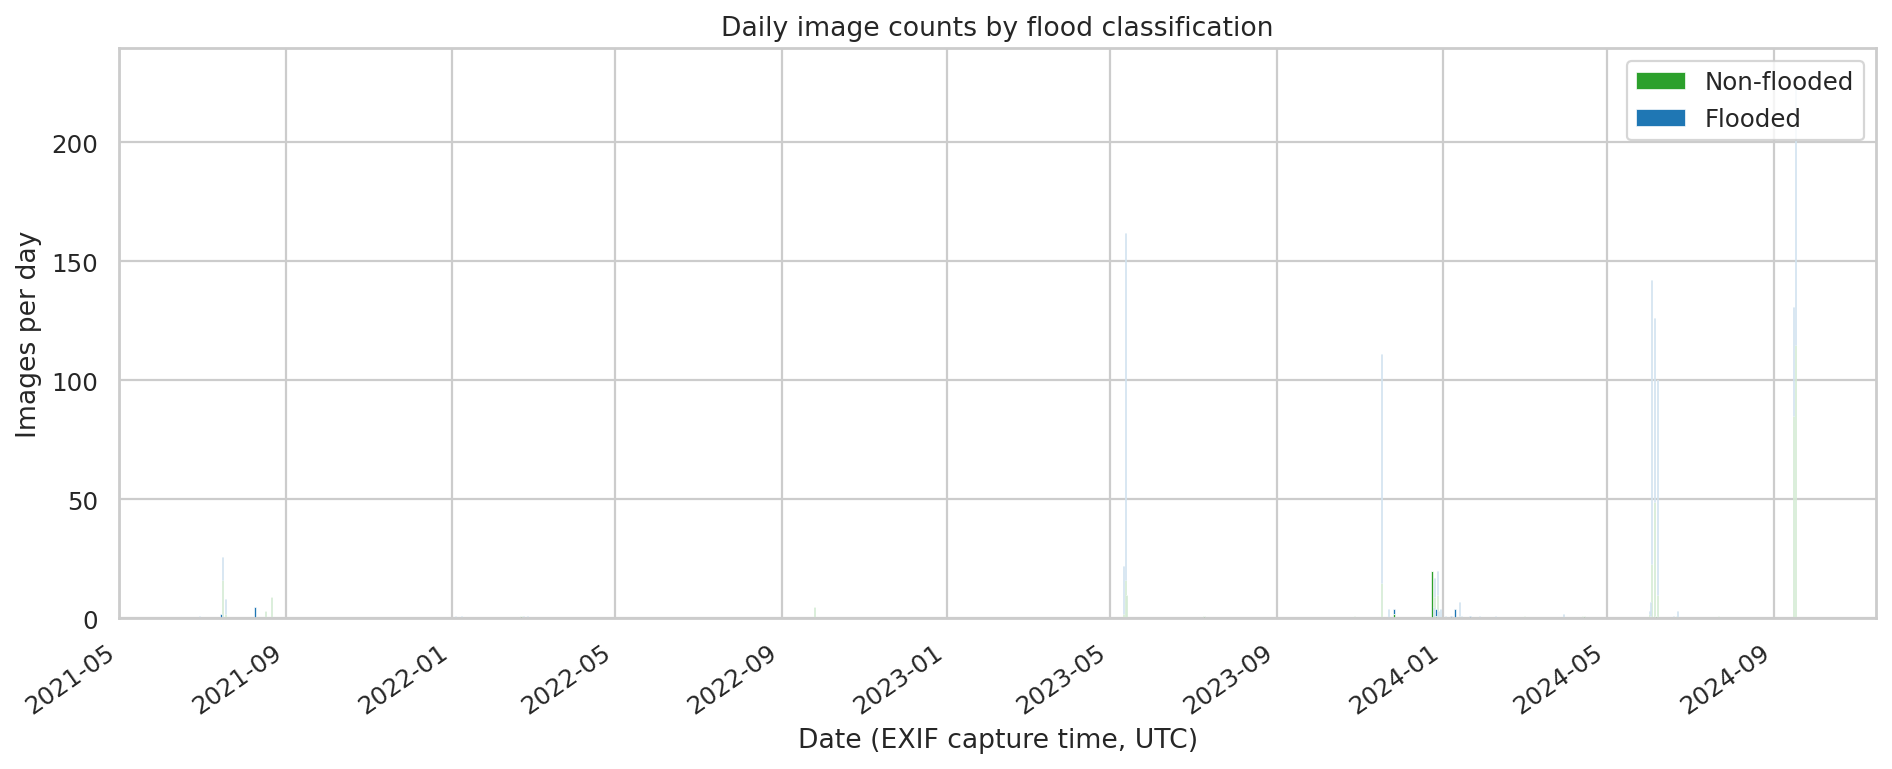
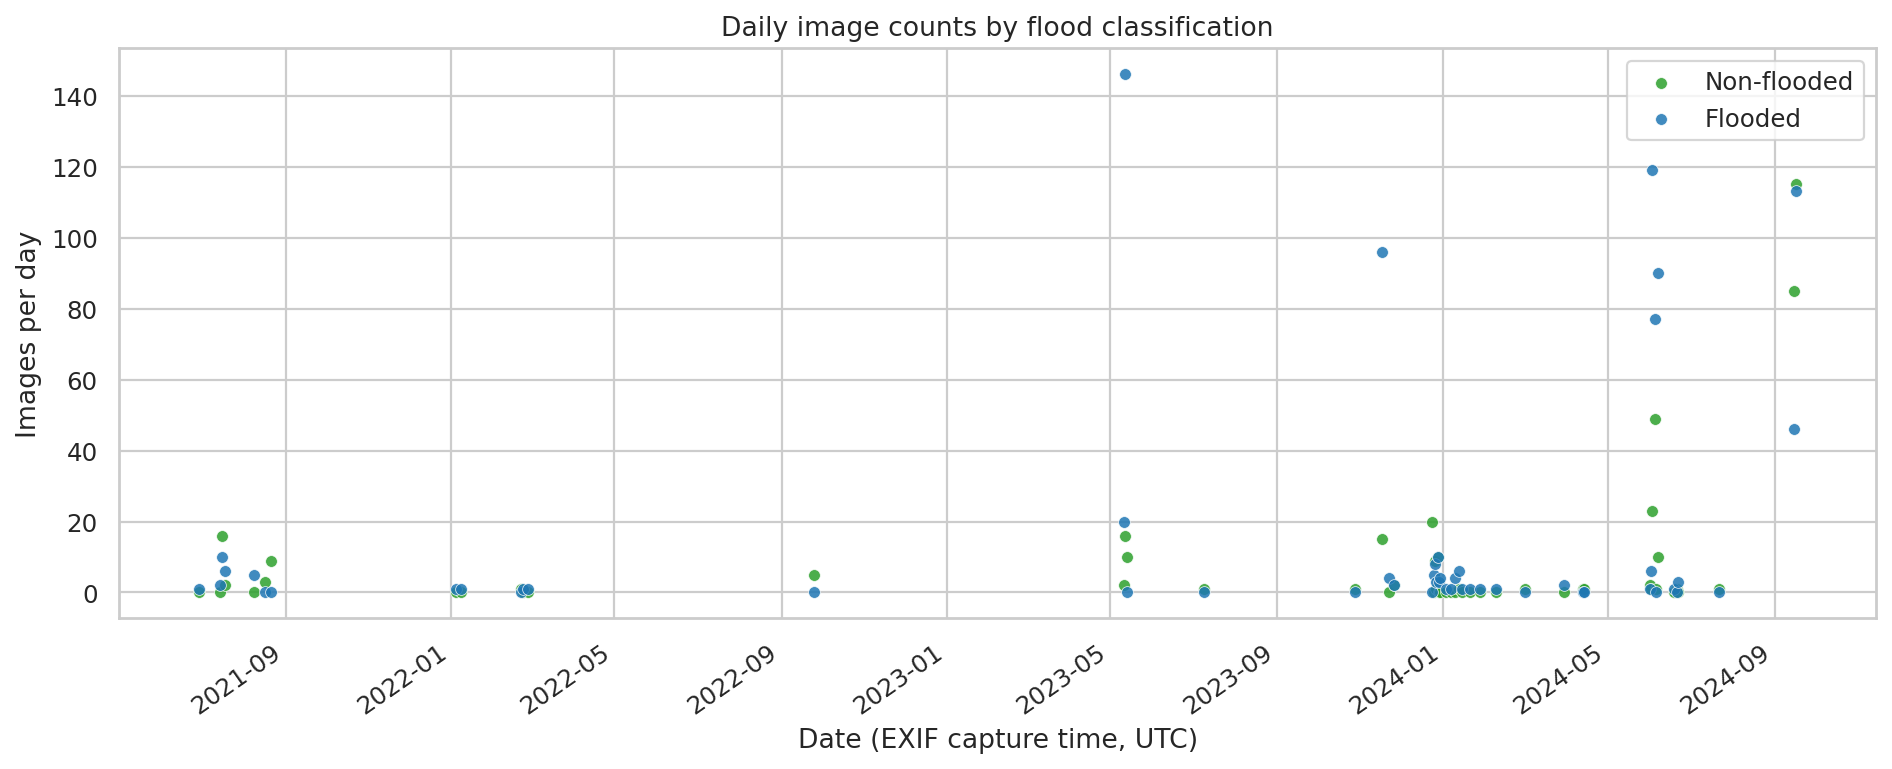
Update dataset documentation figure generation outputs.
Refresh EXIF dataset docs and timeline figure based on the current figure-generation script behavior.

diff --git a/scripts/generate_exif_dataset_doc_figures.py b/scripts/generate_exif_dataset_doc_figures.py
@@ -424,25 +424,25 @@ def figure_timeline(df: pd.DataFrame, out_path: Path) -> None:
     days = [datetime.combine(d, datetime.min.time()) for d in daily.index]
 
     fig, ax = plt.subplots(figsize=(12, 5))
-    width = 0.85
-    ax.bar(
+    ax.scatter(
         days,
         daily[FLOOD_CLASS_NON_FLOODED],
-        width=width,
         label="Non-flooded",
         color=COLOR_NON_FLOODED,
-        edgecolor="white",
-        linewidth=0.3,
+        s=28,
+        alpha=0.85,
+        edgecolors="white",
+        linewidths=0.35,
     )
-    ax.bar(
+    ax.scatter(
         days,
         daily[FLOOD_CLASS_FLOODED],
-        width=width,
-        bottom=daily[FLOOD_CLASS_NON_FLOODED],
         label="Flooded",
         color=COLOR_FLOODED,
-        edgecolor="white",
-        linewidth=0.3,
+        s=28,
+        alpha=0.85,
+        edgecolors="white",
+        linewidths=0.35,
     )
 
     ax.set_xlabel("Date (EXIF capture time, UTC)")

diff --git a/docs/OPERATIONAL_USAGE_SOCIAL_MEDIA_FLOOD_DEPTH_VALIDATION.md b/docs/OPERATIONAL_USAGE_SOCIAL_MEDIA_FLOOD_DEPTH_VALIDATION.md
@@ -157,6 +157,17 @@ For this project context, these approaches are currently not feasible as routine
 - high engineering and maintenance overhead,
 - and area-specific calibration that does not transfer cleanly across flood events.
 
+### 5.4 Alternative Geolocation Options Documented in Project Notes
+
+Based on `docs/image_geolocation_overview.md`, alternatives can be grouped by expected accuracy and operational burden:
+
+- **Open-world geolocation models** (e.g., planet-scale classification and LVLM reasoning): useful for broad localization priors, but typical errors remain in the kilometer range for arbitrary scenes.
+- **Commercial OSINT-style geolocation tools**: can provide city/neighborhood hints quickly, but do not provide the meter-level certainty required for 1 m flood-cell validation.
+- **Cross-view or satellite-ground approaches**: can improve localization where suitable reference imagery is available, but still require substantial setup and context-specific tuning.
+- **Reference-map visual localization stacks** (hloc/SfM family): potentially precise enough, but only after building and maintaining area-specific reference databases.
+
+Within this project framing, methods such as Nomad-like open-world geolocation remain too coarse, while hloc-class pipelines are technically strong but operationally out of scope.
+
 **Figure 5 — Maturity and feasibility of geolocation approaches for this project.**
 
 ```mermaid
@@ -235,6 +246,47 @@ flowchart TB
 ### 7.2 Flood-Depth Proxy Interpretation
 
 The flood-depth component uses visual vehicle submergence levels as an ordinal proxy (0–4). It supports comparative interpretation and triage, but it is not a direct hydraulic measurement. The output should therefore be used as constrained evidence, not standalone truth.
+
+### 7.3 Employed Models: Training Data, Output, and Operational Role
+
+The current implementation uses two enrichment models documented in `docs/EXIF_IMAGES_DATASET.md`.
+
+#### A) Flood scene classifier (Flood-Image-Detection, Hugging Face)
+
+- **Model family and task:** SigLIP-based image classification for flooded vs non-flooded scene discrimination.
+- **Input/output in this repository:** each image is assigned `flood_class` with paired scores (`flood_score_flooded`, `flood_score_non_flooded`).
+- **Training data context (as documented):** the model is consumed as a pretrained external model from Hugging Face; project docs treat it as an exploratory classifier and do not claim local retraining in this repository.
+- **Operational role:** early semantic filtering and prioritization of candidate flood observations before depth-proxy interpretation.
+- **Limitation:** class scores indicate visual flood likelihood, not metric water depth.
+
+#### B) Vehicle submergence model (FLOOD-DEPTH-ML, YOLO weights)
+
+- **Model family and task:** YOLO-based detection/classification using released FLOOD-DEPTH-ML weights (`best_car.pt`), producing inundation level classes for detected vehicles.
+- **Input/output in this repository:** outputs include per-image max level (`flood_depth_max_level`), vehicle count, high-danger indicator, and structured detection JSON with bounding boxes and confidence.
+- **Training data context (as documented):** model weights are downloaded from the FLOOD-DEPTH-ML project and used directly for inference; this repository does not retrain the model. The source project frames levels as vehicle submergence classes rather than surveyed stage observations.
+- **Operational role:** convert flood imagery into an ordinal hazard proxy that can support qualitative model-checking at mapped points.
+- **Limitation:** results remain proxy-based and scene-dependent; they are not equivalent to gauge-calibrated hydraulic depth measurements.
+
+#### C) Combined interpretation in this project
+
+The two models are intentionally chained:
+
+1. classify flood scene likelihood,
+2. estimate vehicle submergence proxy where relevant,
+3. retain metadata-first quality control as the primary acceptance criterion.
+
+This ordering reflects the project principle that metadata reliability (location/time provenance) dominates model sophistication for operational 1 m validation.
+
+### 7.4 Alternative Flood-Depth Model Options from the Documentation
+
+`docs/flood_depth_estimation_summary.md` identifies several alternatives that were reviewed:
+
+- **EcoVision line (2019/2020, ETH Zürich):** foundational and scientifically strong, but documented as research-grade in practice (partial code, no turnkey deployment path, limited accessibility of data/assets).
+- **STURM-FloodDepth (2025):** more pipeline-oriented and includes trained components plus curated data; technically attractive for structured workflows but introduces additional integration complexity versus the current lightweight enrichment path.
+- **FloodLlama (2025 preprint):** reports strong performance, but no public code/weights/data release in the documented state, making reproducible operational deployment infeasible.
+- **FloodVision (2025):** promising VLM + knowledge-graph concept, but no released implementation and external API dependencies, limiting reproducibility and controlled offline operations.
+
+Given these constraints, the repository currently prioritizes FLOOD-DEPTH-ML as the most practical deployment-ready option while maintaining explicit uncertainty framing.
 
 ---
 

diff --git a/docs/EXIF_IMAGES_DATASET.md b/docs/EXIF_IMAGES_DATASET.md
@@ -10,7 +10,7 @@ Portable, geotagged image subset derived from the GIA GigaMove archive `social_m
 
 ## Summary statistics
 
-Counts below reflect the dataset built on **2026-05-27** (see `data/exif_images/manifest.json`). Re-run `scripts/generate_exif_dataset_doc_figures.py` after rebuilding to refresh plots.
+Counts below reflect the dataset built on **2026-05-27** (see `data/exif_images/manifest.json`).
 
 | Metric | Count |
 |--------|------:|
@@ -247,12 +247,7 @@ Example skip counts from the reference build:
 
 ## Dataset overview figures
 
-Regenerate after any rebuild:
-
-```bash
-.venv/bin/pip install matplotlib seaborn contextily geopandas pandas
-.venv/bin/python scripts/generate_exif_dataset_doc_figures.py
-```
+The following embedded figures summarize dataset composition, spatial coverage, and temporal distribution.
 
 ![Figure 6 — Dataset funnel: counts from source zip through geotagged subset to flooded images with vehicles](exif_images/figures/fig04_dataset_funnel.png)
 
@@ -264,13 +259,13 @@ Regenerate after any rebuild:
 
 ![Figure 8 — Daily image counts by flood class](exif_images/figures/fig06_daily_timeline.png)
 
-**Figure 8.** Stacked bars per calendar day (UTC) from EXIF capture time (`exif_taken_at_original`, else `exif_taken_at_record`), stacked by `flood_class`.
+**Figure 8.** Scatter points per calendar day (UTC) from EXIF capture time (`exif_taken_at_original`, else `exif_taken_at_record`), coloured by `flood_class`.
 
 ---
 
 ## Example images
 
-Nine sample thumbnails per panel (3×3 grid), chosen by evenly spacing rows sorted by model score (flooded / non-flooded) or max inundation level (depth panels). Regenerate with `scripts/generate_exif_dataset_doc_figures.py`.
+Nine sample thumbnails per panel (3×3 grid), chosen by evenly spacing rows sorted by model score (flooded / non-flooded) or max inundation level (depth panels).
 
 **Bounding-box style (Figures 11–13):** Matches the EXIF map side panel (`web/exif-map/src/components/ImageWithDetections.tsx`): coloured rectangle per vehicle, label `Level {n}: {confidence}` with level-coloured background and white text. Colours from `inundationLevelHex` — L0 `#22c55e`, L1–L2 `#eab308`, L3–L4 `#ef4444` ([`floodDepth.ts`](../web/exif-map/src/lib/floodDepth.ts)). Drawing logic lives in `exif_images/detection_overlay.py`.
 